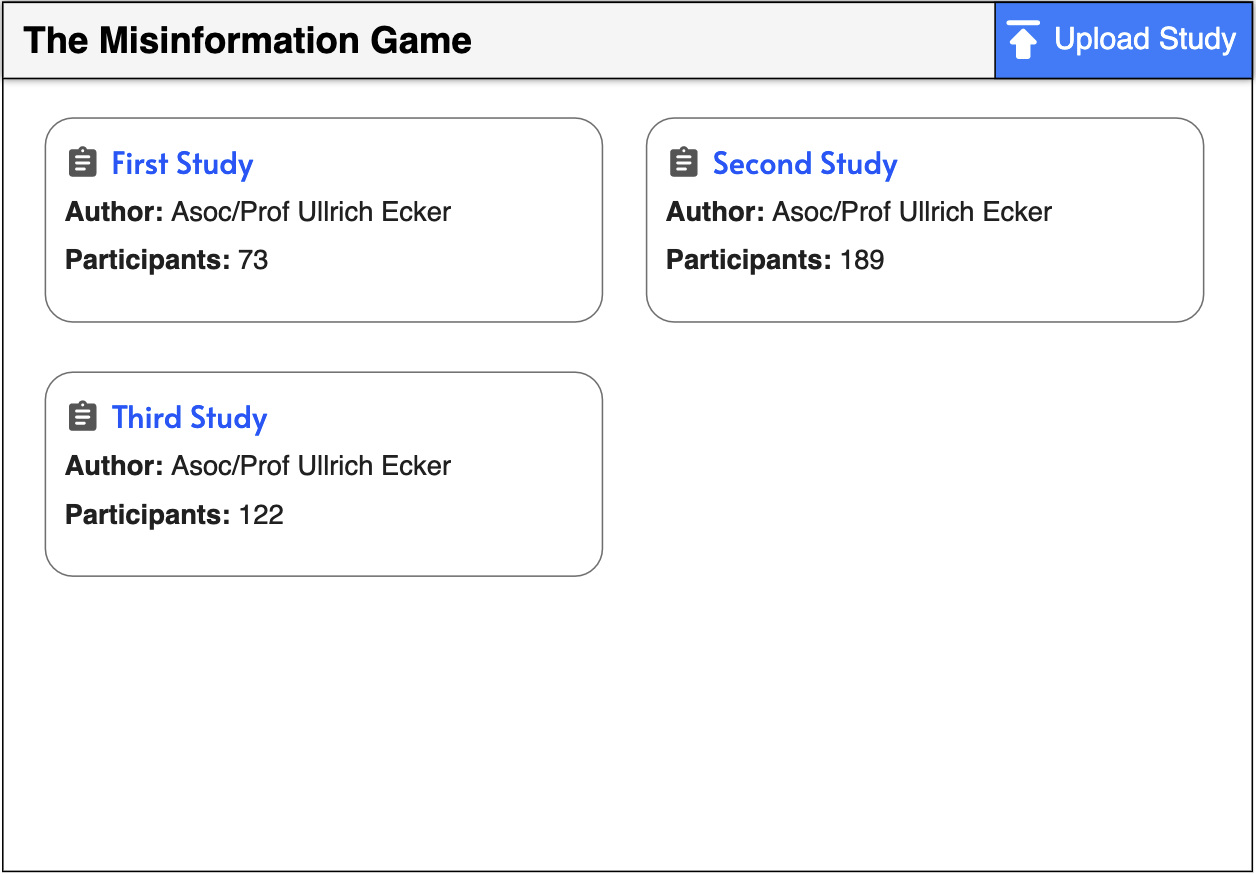
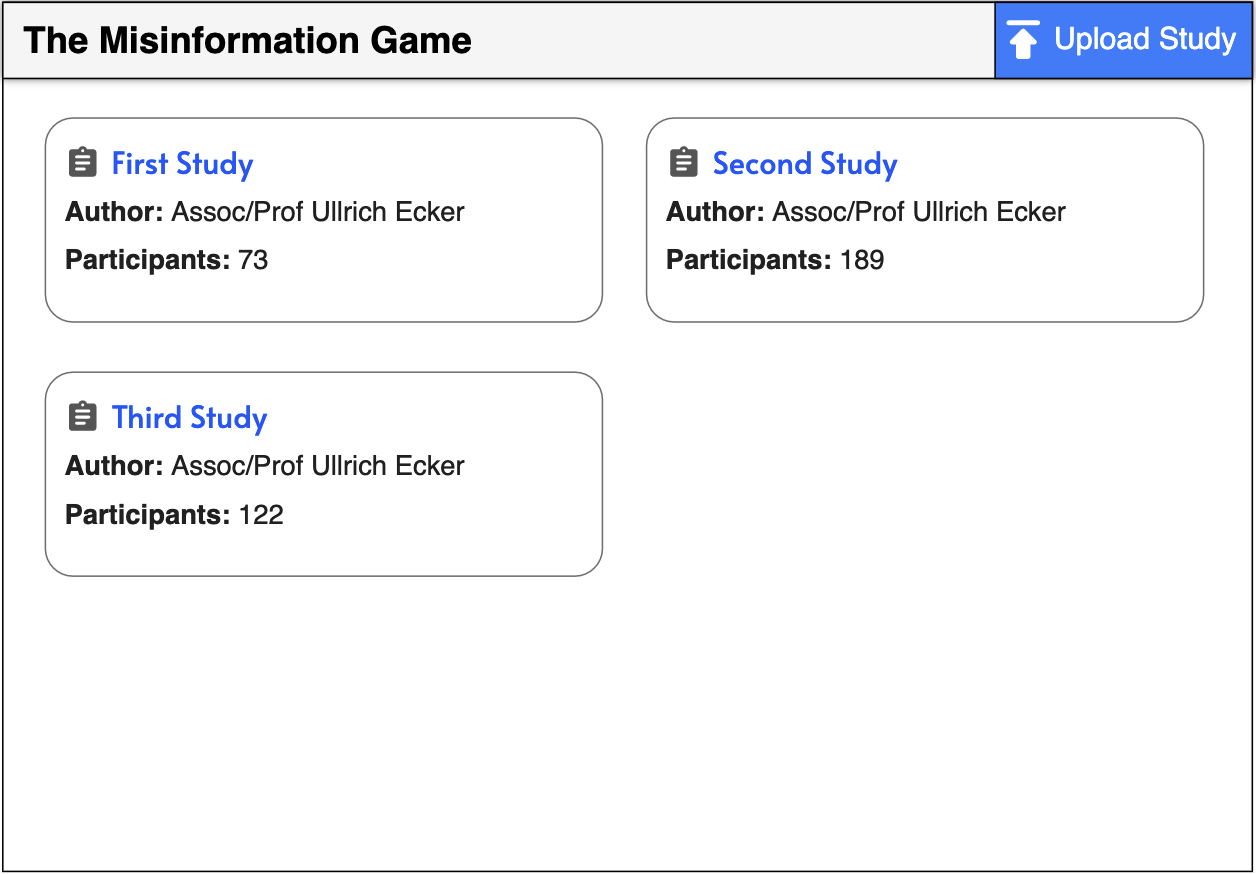
Fix 'Asoc/Prof' to 'Assoc/Prof' in the admin mockups

Changed region(s): [[0.1553, 0.2162, 0.3726, 0.278], [0.6521, 0.2162, 0.8384, 0.278], [0.1553, 0.4943, 0.3726, 0.5561]]

diff --git a/docs/DESIGN.md b/docs/DESIGN.md
@@ -87,6 +87,10 @@ mobile devices, and therefore it should follow a responsive design.
 ![Mockup of game screen](game-mockup.png)
 
 ### Admin Dashboard Mockup
+
+This should probably also include a link to our GitHub documentation
+and a template Excel document for creating studies.
+
 ![Mockup of admin dashboard](admin-dashboard-mockup.png)
 
 ### Admin Study Mockup
